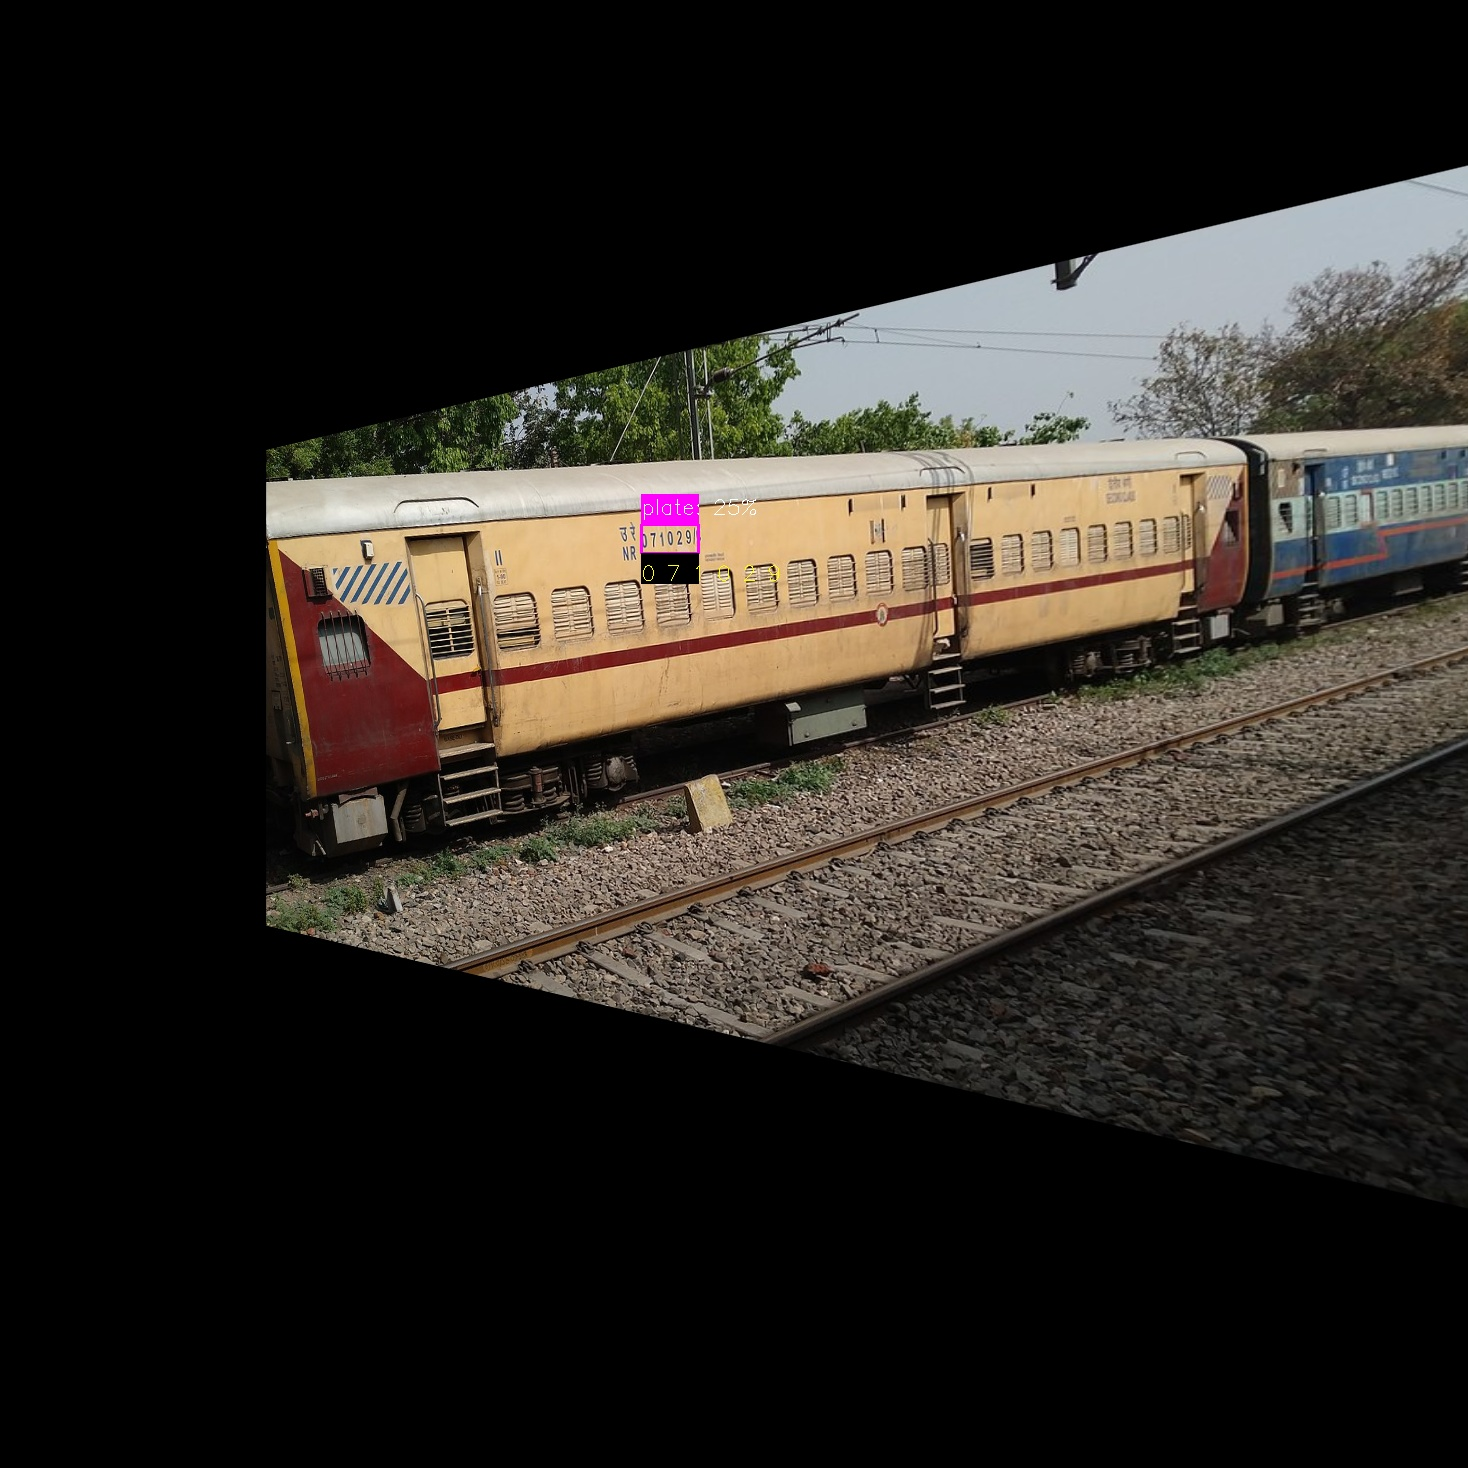
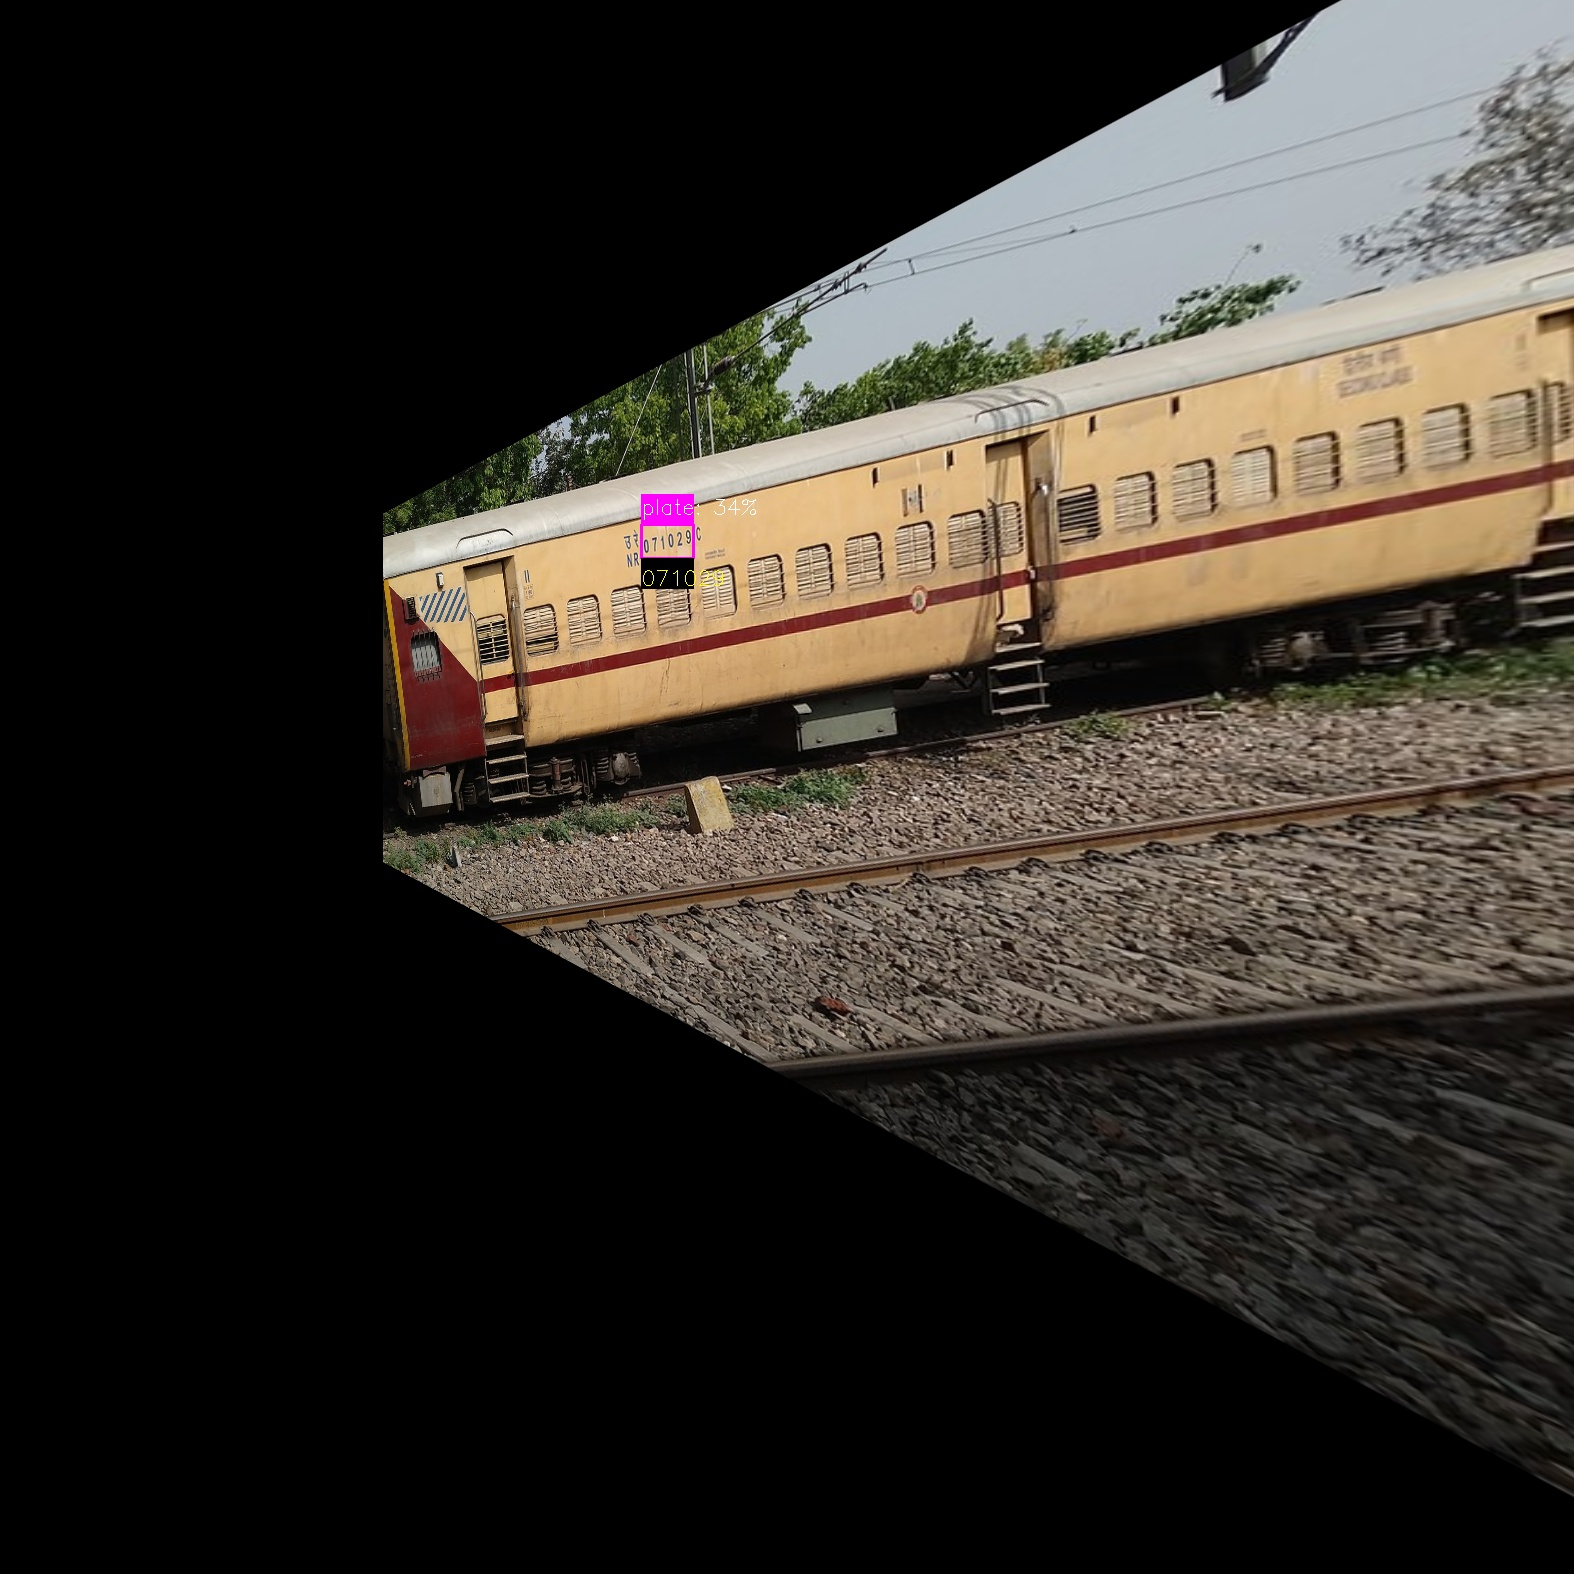
initial commit

diff --git a/deeplearning.py b/deeplearning.py
@@ -3,7 +3,8 @@ import cv2
 import matplotlib.pyplot as plt
 import os
 os.environ['KMP_DUPLICATE_LIB_OK']='True'
-import easyocr
+import pytesseract
+from pytesseract import Output
 import math
 import re
 
@@ -70,9 +71,6 @@ def non_maximum_supression(input_image,detections):
     return boxes_np, confidences_np, index
 
 def extract_text(image, bbox):
-    # Initialize the EasyOCR reader
-    reader = easyocr.Reader(['en'])
-    
     x, y, w, h = bbox
     roi = image[y:y+h, x:x+w]
     
@@ -81,28 +79,28 @@ def extract_text(image, bbox):
     else:
         # Resize the ROI to expand it along the x-axis to 150%
         new_w = int(w * 2)
-        new_h = int(h*1.2)
+        new_h = int(h * 1.2)
         resized_roi = cv2.resize(roi, (new_w, new_h), interpolation=cv2.INTER_LINEAR)
         
-        # Use EasyOCR to extract text from the resized ROI
-        results = reader.readtext(resized_roi, detail=1)
+        # Use Tesseract to extract text and confidence scores from the resized ROI
+        custom_config = r'--oem 3 --psm 6 -c tessedit_char_whitelist=0123456789'
+        details = pytesseract.image_to_data(resized_roi, config=custom_config, output_type=Output.DICT)
         
-        if not results:
-            return '', 0.0
-        
-        # Extract text and confidence scores
         text_list = []
         confidence_list = []
         
-        for (bbox, text, confidence) in results:
-            text_list.append(text)
-            confidence_list.append(confidence)
+        for i in range(len(details['text'])):
+            text = details['text'][i]
+            conf = int(details['conf'][i])
+            if conf > 0:  # Filter out empty results
+                text_list.append(text)
+                confidence_list.append(conf)
 
         if not text_list:
-            return "",0
+            return "", 0
         
         # Join the text parts
-        text = ' '.join(text_list).strip()
+        text = ''.join(text_list).strip()
         
         # Calculate the average confidence score
         avg_confidence = sum(confidence_list) / len(confidence_list)
@@ -110,26 +108,24 @@ def extract_text(image, bbox):
         print(text, avg_confidence, "number")
         return text, avg_confidence
 
-
-def drawings(image,boxes_np,confidences_np,index):
+def drawings(image, boxes_np, confidences_np, index):
     # drawings
     if not boxes_np:
-        return image,"",0
+        return image, "", 0
     for ind in index:
-        x,y,w,h = boxes_np[ind]
+        x, y, w, h = boxes_np[ind]
         bb_conf = confidences_np[ind]
-        conf_text = 'plate: {:.0f}%'.format(bb_conf*100)
-        license_text, correct_factor = extract_text(image,boxes_np[ind])
+        conf_text = 'plate: {:.0f}%'.format(bb_conf * 100)
+        license_text, correct_factor = extract_text(image, boxes_np[ind])
         
-        cv2.rectangle(image,(x,y),(x+w,y+h),(255,0,255),2)
-        cv2.rectangle(image,(x,y-30),(x+w,y),(255,0,255),-1)
-        cv2.rectangle(image,(x,y+h),(x+w,y+h+30),(0,0,0),-1)
+        cv2.rectangle(image, (x, y), (x + w, y + h), (255, 0, 255), 2)
+        cv2.rectangle(image, (x, y - 30), (x + w, y), (255, 0, 255), -1)
+        cv2.rectangle(image, (x, y + h), (x + w, y + h + 30), (0, 0, 0), -1)
 
-        cv2.putText(image,conf_text,(x,y-10),cv2.FONT_HERSHEY_SIMPLEX,0.7,(255,255,255),1)
-        cv2.putText(image,license_text,(x,y+h+27),cv2.FONT_HERSHEY_SIMPLEX,0.7,(0,255,255),1)
+        cv2.putText(image, conf_text, (x, y - 10), cv2.FONT_HERSHEY_SIMPLEX, 0.7, (255, 255, 255), 1)
+        cv2.putText(image, license_text, (x, y + h + 27), cv2.FONT_HERSHEY_SIMPLEX, 0.7, (0, 255, 255), 1)
         
-    return image,license_text,correct_factor
-
+    return image, license_text, correct_factor
 
 # predictions
 def yolo_predictions(img, net):
@@ -138,8 +134,8 @@ def yolo_predictions(img, net):
     ## step-2: NMS
     boxes_np, confidences_np, index = non_maximum_supression(input_image, detections)
     ## step-3: Drawings
-    result_img,text_result,correct_factor = drawings(img, boxes_np, confidences_np, index)
-    return result_img,text_result,correct_factor
+    result_img, text_result, correct_factor = drawings(img, boxes_np, confidences_np, index)
+    return result_img, text_result, correct_factor
 
 
 def rotate_y(img, y):
@@ -215,8 +211,8 @@ def process_images_with_yolo(img, net, angles):
 
     return best_image,correct_text
 
-angles = [-8,-4,4,8,12]
-
+angles = [-12,-11,-10,-9,-8,-7,-6,-5,-4,-3,-2,-1,1,2,3,4,5,6,7,8,9,10,11,12]
+# match and 
 
 def object_detection(path,filename):
     # read image
